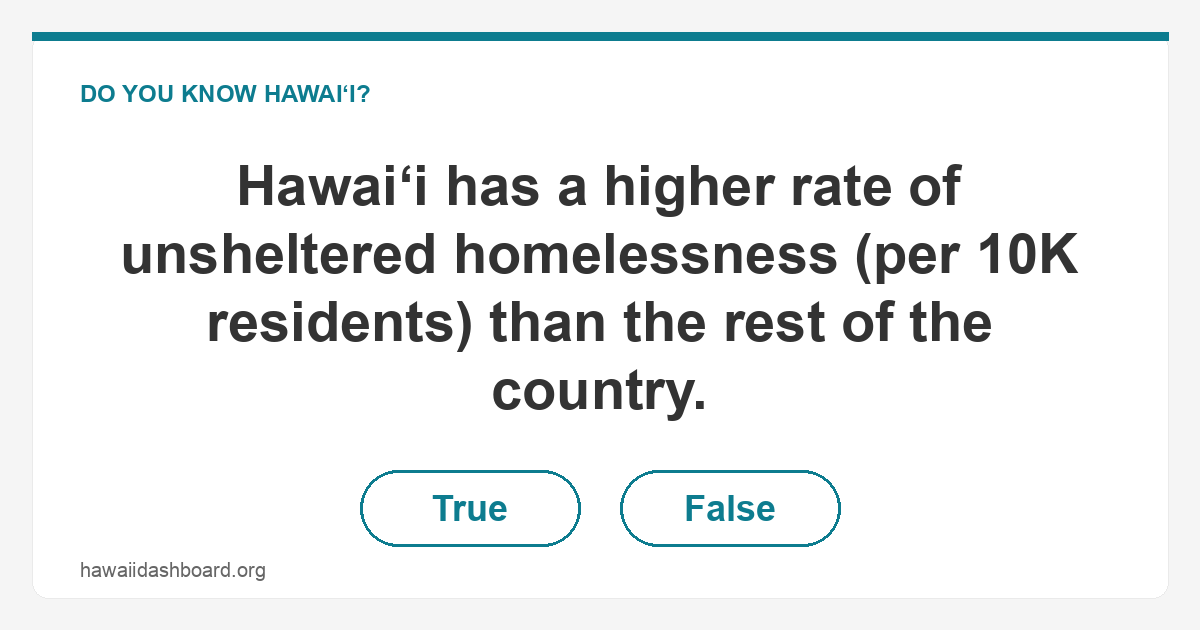
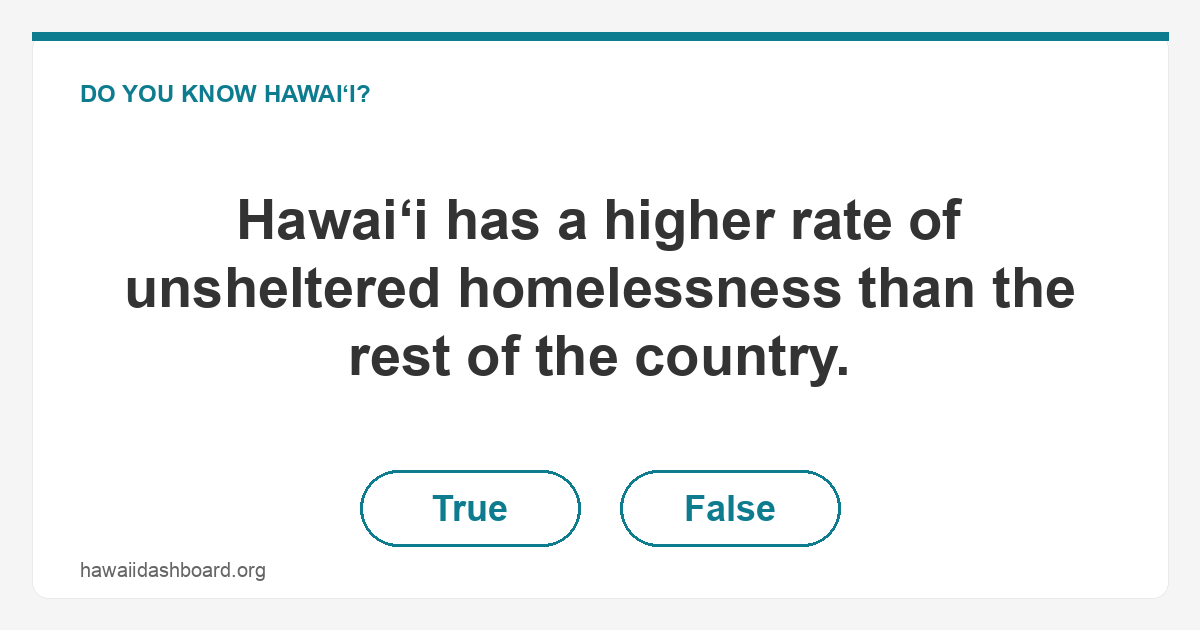
QOTD: drop parentheticals from q005 and q077 claims
Per user feedback, the explanatory clauses ("(pay 30%+ of income on
rent)", "(per 10K residents)") are overkill in the teaser claim — the
answer reveal already quotes the specific percentage/rate. Claims
stay factually tight without the inline definitions.

  q005: "... are cost-burdened than in the rest of the country."
  q077: "... rate of unsheltered homelessness than the rest of the country."

Regenerated OG PNGs and redirect pages. Cache-bust bumped.

Changed region(s): [[0.0925, 0.2413, 0.8942, 0.6635]]

diff --git a/js/questions.js b/js/questions.js
@@ -105,7 +105,7 @@ const QOTD_QUESTIONS = [
   {
     "id": "q077",
     "slug": "hawaii-has-more-unsheltered-homelessness-than-the-rest-of-the-country",
-    "claim": "Hawaiʻi has a higher rate of unsheltered homelessness (per 10K residents) than the rest of the country.",
+    "claim": "Hawaiʻi has a higher rate of unsheltered homelessness than the rest of the country.",
     "correct": true,
     "answer": "In 2024, Hawaiʻi was 28.2 per 10K versus the median of 3.5 per 10K.",
     "chartUrl": "/r/unsheltered_homeless_rate/",
@@ -141,7 +141,7 @@ const QOTD_QUESTIONS = [
   {
     "id": "q005",
     "slug": "most-hawaii-renters-spend-over-30-percent-on-rent",
-    "claim": "A larger share of Hawaiʻi renter households are cost-burdened (pay 30%+ of income on rent) than in the rest of the country.",
+    "claim": "A larger share of Hawaiʻi renter households are cost-burdened than in the rest of the country.",
     "correct": true,
     "answer": "In 2024, Hawaiʻi was 50.6% versus the median of 45.9%.",
     "chartUrl": "/r/renter_cost_burden_pct/",

diff --git a/q/q005/index.html b/q/q005/index.html
@@ -13,7 +13,7 @@
   <meta name="twitter:card" content="summary_large_image">
   <meta name="twitter:title" content="Do you know Hawaiʻi?">
   <meta name="twitter:image" content="https://hawaiidashboard.org/assets/og/q/most-hawaii-renters-spend-over-30-percent-on-rent.png">
-  <meta name="description" content="A larger share of Hawaiʻi renter households are cost-burdened (pay 30%+ of income on rent) than in the rest of the country.">
+  <meta name="description" content="A larger share of Hawaiʻi renter households are cost-burdened than in the rest of the country.">
   <link rel="canonical" href="https://hawaiidashboard.org/q/q005/">
   <script>window.location.replace("/?from_q=q005");</script>
   <meta http-equiv="refresh" content="0;url=https://hawaiidashboard.org/?from_q=q005">

diff --git a/q/q077/index.html b/q/q077/index.html
@@ -13,7 +13,7 @@
   <meta name="twitter:card" content="summary_large_image">
   <meta name="twitter:title" content="Do you know Hawaiʻi?">
   <meta name="twitter:image" content="https://hawaiidashboard.org/assets/og/q/hawaii-has-more-unsheltered-homelessness-than-the-rest-of-the-country.png">
-  <meta name="description" content="Hawaiʻi has a higher rate of unsheltered homelessness (per 10K residents) than the rest of the country.">
+  <meta name="description" content="Hawaiʻi has a higher rate of unsheltered homelessness than the rest of the country.">
   <link rel="canonical" href="https://hawaiidashboard.org/q/q077/">
   <script>window.location.replace("/?from_q=q077");</script>
   <meta http-equiv="refresh" content="0;url=https://hawaiidashboard.org/?from_q=q077">

diff --git a/index.html b/index.html
@@ -362,7 +362,7 @@
     <script src="js/routing.js?v=20260416a"></script>
     <script src="js/export.js?v=20260419e"></script>
     <script src="js/modal.js?v=20260419c"></script>
-    <script src="js/questions.js?v=20260419f"></script>
+    <script src="js/questions.js?v=20260419g"></script>
     <script src="js/qotd.js?v=20260419c"></script>
     <script src="js/app.js?v=20260419e"></script>
 </body>
